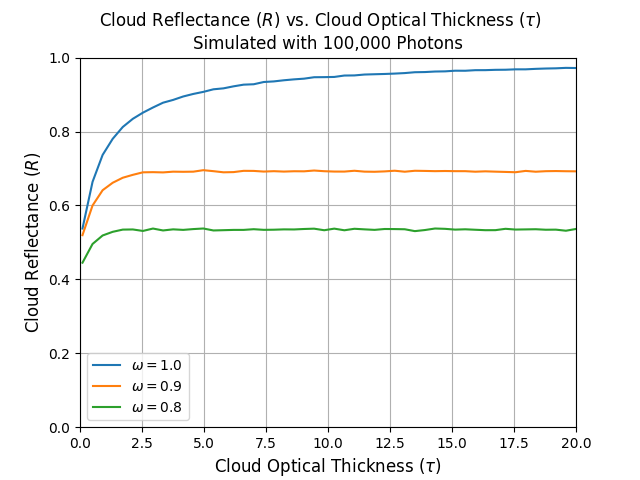
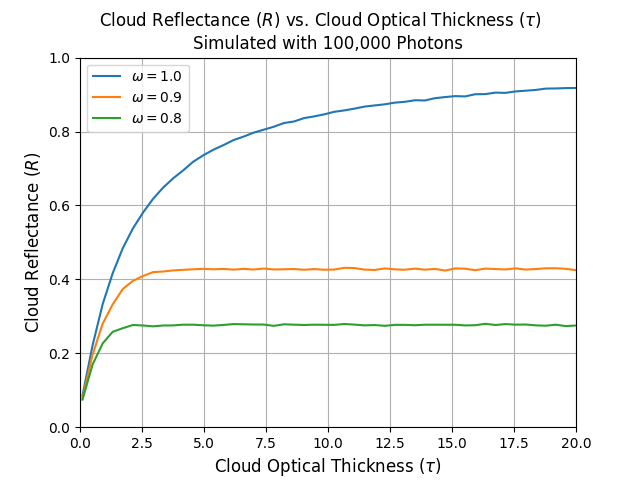
Changed solar zenith angle for problem 1.

diff --git a/Solutions/Assignment 04 - Homework 4/HW4_Erick_Shepherd.py b/Solutions/Assignment 04 - Homework 4/HW4_Erick_Shepherd.py
@@ -82,9 +82,9 @@ MCRT = MCRT_procedural
 #   Tweak it as needed to produce results in a reasonable time; however, do note
 #   that the larger a sample size is used, the less noise there is in the 
 #   results. 10,000 (1e5) is fairly reasonable for most purposes both in terms 
-#   of accuracy and runtime.
+#   of accuracy and runtime. I use 100,000 (1e6) for a higher quality image.
 #    - Erick Shepherd
-N_photons = 10000
+N_photons = 100000
 
 """
 Problem information:
@@ -108,7 +108,7 @@ def question1():
 
     COTs = np.linspace(0.1, 20, 50)
     SSAs = np.asarray([1.0, 0.9, 0.8])
-    SZA  = np.pi / 3
+    SZA  = 0
 
     plt.figure()
 
@@ -169,7 +169,7 @@ def question2():
     #   working with about 10,000 photons; 100 bins works better when working
     #   with 100,000 photons.
     #    - Erick Shepherd
-    bins = 50
+    bins = 100
     
     plt.figure()
     
